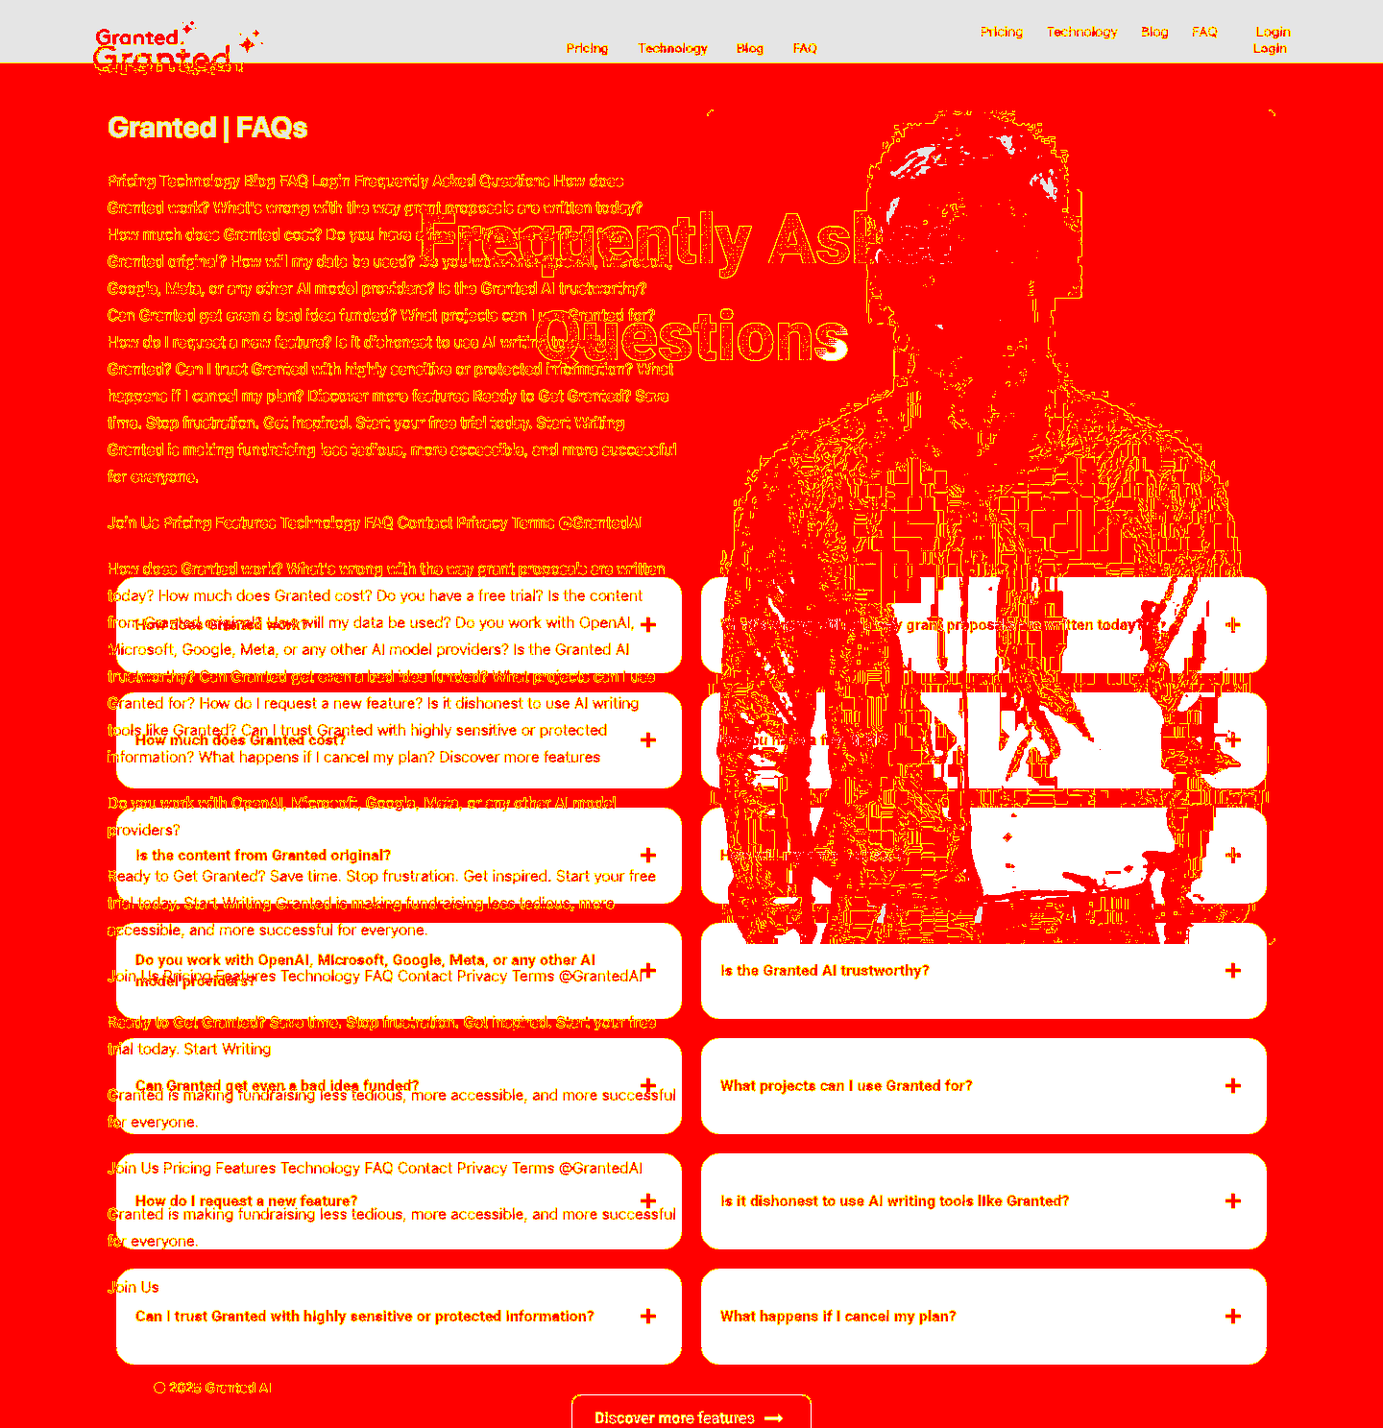
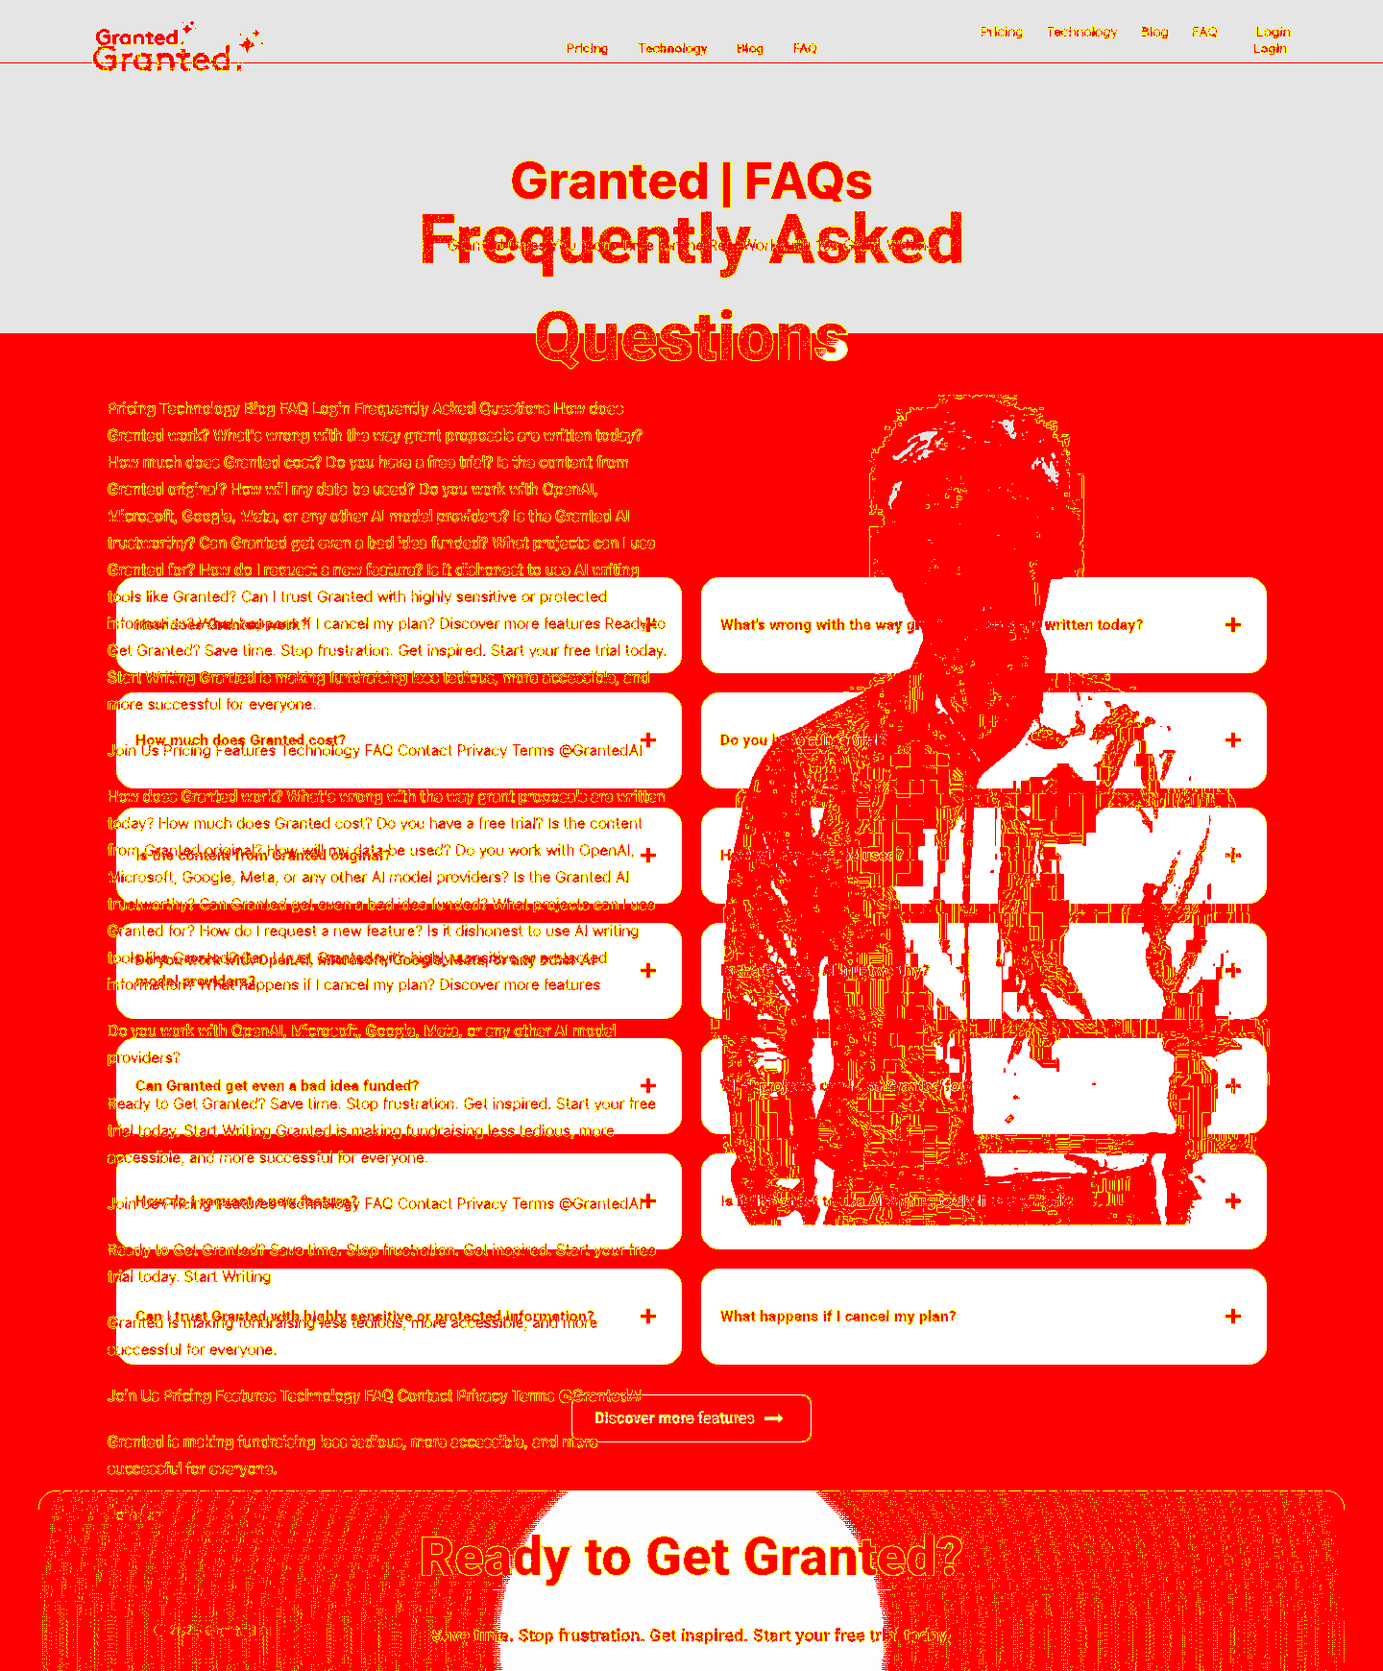
fix(orchestrator): add per-call timeouts and per-section progress marks; reduce fill-gap to one pass; lazy-import heavy parsers in upload route and set runtime=nodejs; add OpenAI timeout in fill-gap

diff --git a/site/app/page.tsx b/site/app/page.tsx
@@ -13,46 +13,46 @@ export default async function Home() {
     <div>
       {/* Hero (black) */}
       <section className="bg-black text-white">
-        <div className="mx-auto max-w-7xl px-6 md:px-8 py-16 md:py-24 text-center">
-          <h1 className="font-bold leading-tight text-4xl md:text-7xl">{headline}</h1>
-          <div className="mt-6 text-2xl md:text-3xl font-semibold">{subhead}</div>
-          <div className="mt-4 text-gray-300 max-w-3xl mx-auto space-y-2">
+        <div className="mx-auto max-w-7xl px-6 md:px-8 py-20 md:py-28 text-center">
+          <h1 className="font-extrabold leading-[1.05] text-[46px] md:text-[72px] lg:text-[84px] tracking-tight">{headline}</h1>
+          <div className="mt-6 text-[22px] md:text-[28px] font-semibold">{subhead}</div>
+          <div className="mt-5 text-gray-300 max-w-3xl mx-auto space-y-2 text-[16px] md:text-[18px]">
             <p>{p1}</p>
             <p>{p2}</p>
           </div>
-          <div className="mt-10">
-            <a href="https://app.grantedai.com" className="px-6 py-3 rounded-md bg-yellow-400 text-black font-semibold hover:bg-yellow-300 border border-yellow-500">Start Writing</a>
+          <div className="mt-12">
+            <a href="https://app.grantedai.com" className="px-6 py-3 rounded-md bg-yellow-400 text-black font-semibold hover:bg-yellow-300 border border-yellow-500 shadow">Start Writing</a>
           </div>
         </div>
       </section>
 
       {/* Section: quality of ideas */}
       <section className="bg-white">
-        <div className="mx-auto max-w-7xl px-6 md:px-8 py-16 grid md:grid-cols-2 gap-10 items-center">
+        <div className="mx-auto max-w-7xl px-6 md:px-8 py-16 grid md:grid-cols-2 gap-12 items-center">
           <div>
-            <h2 className="text-3xl md:text-4xl font-extrabold leading-tight">{h2}</h2>
-            <p className="mt-4 text-gray-700 max-w-xl">
+            <h2 className="text-[34px] md:text-[44px] font-extrabold leading-tight">{h2}</h2>
+            <p className="mt-5 text-gray-700 max-w-xl text-[16px] md:text-[18px]">
               Instantly generate high-quality drafts for a wide range of grant proposals, appeals, letters of support, articles, and more, just by entering simple information about your project.
             </p>
             <div className="mt-6">
-              <a href="/features" className="inline-flex items-center gap-2 px-4 py-2 rounded-md border font-medium">Discover more features <span aria-hidden>→</span></a>
+              <a href="/features" className="inline-flex items-center gap-2 px-4 py-2 rounded-md border font-medium hover:bg-white">Discover more features <span aria-hidden>→</span></a>
             </div>
           </div>
           <div className="text-center">
-            <img src="/images/imgi_7_img1.jpg" alt="Granted" width="480" height="540" className="mx-auto rounded-xl border" />
+            <img src="/images/imgi_7_img1.jpg" alt="Granted" width="520" height="560" className="mx-auto rounded-xl" />
           </div>
         </div>
       </section>
 
       {/* Section: donor appeal to NIH R01 */}
       <section className="bg-white">
-        <div className="mx-auto max-w-7xl px-6 md:px-8 py-10 grid md:grid-cols-2 gap-10 items-start">
+        <div className="mx-auto max-w-7xl px-6 md:px-8 py-14 grid md:grid-cols-2 gap-12 items-start">
           <div className="order-2 md:order-1 text-center">
-            <img src="/images/imgi_9_img3.jpg" alt="Use cases" width="420" height="500" className="mx-auto rounded-xl border" />
+            <img src="/images/imgi_9_img3.jpg" alt="Use cases" width="460" height="540" className="mx-auto rounded-xl" />
           </div>
           <div className="order-1 md:order-2">
-            <h3 className="text-3xl font-extrabold leading-tight">{h3}</h3>
-            <ul className="mt-6 text-gray-700 space-y-2 list-disc pl-5">
+            <h3 className="text-[30px] md:text-[36px] font-extrabold leading-tight">{h3}</h3>
+            <ul className="mt-6 text-gray-700 space-y-2 list-disc pl-5 text-[16px] md:text-[18px]">
               <li>Quickly assemble full fundraising proposals.</li>
               <li>Granted's AI is specifically trained for grant proposal writing and produces superior outcomes compared to general-purpose AI writing tools.</li>
               <li>50+ writing models to help draft highly personalized fundraising proposals.</li>
@@ -67,20 +67,20 @@ export default async function Home() {
 
       {/* Section: 3 Steps */}
       <section className="bg-black text-white">
-        <div className="mx-auto max-w-7xl px-6 md:px-8 py-16">
-          <h2 className="text-3xl md:text-5xl font-extrabold text-center">3 Steps To Your Fastest Funding Ever</h2>
-          <div className="mt-10 grid gap-8 md:grid-cols-3">
-            <div className="rounded-[28px] bg-white/95 text-black p-8 shadow border">
+        <div className="mx-auto max-w-7xl px-6 md:px-8 py-20">
+          <h2 className="text-[34px] md:text-[54px] font-extrabold text-center">3 Steps To Your Fastest Funding Ever</h2>
+          <div className="mt-12 grid gap-8 md:grid-cols-3">
+            <div className="rounded-[28px] bg-white/95 text-black p-8 shadow border border-gray-200">
               <div className="text-4xl font-extrabold text-yellow-400">1</div>
               <div className="mt-4 font-semibold">Create a new project.</div>
               <p className="mt-2 text-gray-600">Enter your mission statement and describe your work.</p>
             </div>
-            <div className="rounded-[28px] bg-white/95 text-black p-8 shadow border">
+            <div className="rounded-[28px] bg-white/95 text-black p-8 shadow border border-gray-200">
               <div className="text-4xl font-extrabold text-yellow-400">2</div>
               <div className="mt-4 font-semibold">Select a model and complete the prompt.</div>
               <p className="mt-2 text-gray-600">Each of the 50+ models require some essential information, such as key personnel, values, funding request amount, and project description.</p>
             </div>
-            <div className="rounded-[28px] bg-white/95 text-black p-8 shadow border">
+            <div className="rounded-[28px] bg-white/95 text-black p-8 shadow border border-gray-200">
               <div className="text-4xl font-extrabold text-yellow-400">3</div>
               <div className="mt-4 font-semibold">Watch as Granted creates a quality draft in seconds.</div>
               <p className="mt-2 text-gray-600">Pick your favorite draft and go. Or copy it into a larger document in the editor to assemble your full proposal.</p>
@@ -91,12 +91,12 @@ export default async function Home() {
 
       {/* Section: Level the playing field */}
       <section className="bg-white">
-        <div className="mx-auto max-w-7xl px-6 md:px-8 py-16 grid md:grid-cols-2 gap-10 items-center">
+        <div className="mx-auto max-w-7xl px-6 md:px-8 py-20 grid md:grid-cols-2 gap-12 items-center">
           <div className="order-2 md:order-1 text-center">
             <img src="/images/imgi_8_img2.jpg" alt="Equity" width="520" height="520" className="mx-auto rounded-xl" />
           </div>
           <div className="order-1 md:order-2">
-            <h2 className="text-4xl md:text-5xl font-extrabold leading-tight">Level the fundraising playing field.</h2>
+            <h2 className="text-[34px] md:text-[54px] font-extrabold leading-tight">Level the fundraising playing field.</h2>
             <p className="mt-6 text-gray-700 max-w-xl">The fundraising game isn't fair. The submission and selection process has well-known equity issues that disproportionately affect the careers of women, minorities, and non-native English speakers.</p>
             <p className="mt-4 text-gray-700 max-w-xl">Granted's mission is to make fundraising less tedious, more accessible, and more successful for everyone &mdash; while freeing up millions of additional hours of productivity.</p>
           </div>
@@ -105,12 +105,12 @@ export default async function Home() {
 
       {/* CTA band */}
       <section className="bg-black">
-        <div className="mx-auto max-w-7xl px-6 md:px-8 py-16">
-          <div className="mx-auto max-w-5xl rounded-[24px] p-10 md:p-14" style={{background:'linear-gradient(180deg,#fde68a,#fbbf24)'}}>
-            <h3 className="text-3xl md:text-5xl font-extrabold text-black text-center">Ready to Get Granted?</h3>
-            <p className="mt-4 text-black/80 text-center">Save time. Stop frustration. Get inspired. Start your free trial today.</p>
-            <div className="mt-8 flex justify-center">
-              <a href="https://app.grantedai.com" className="px-6 py-3 rounded-md bg-black text-white font-semibold hover:opacity-90">Start Writing</a>
+        <div className="mx-auto max-w-7xl px-6 md:px-8 py-24">
+          <div className="mx-auto max-w-5xl rounded-[24px] p-10 md:p-16 shadow-lg" style={{background:'linear-gradient(180deg,#fde68a,#f59e0b)'}}>
+            <h3 className="text-[34px] md:text-[54px] font-extrabold text-black text-center">Ready to Get Granted?</h3>
+            <p className="mt-4 text-black/80 text-center text-lg">Save time. Stop frustration. Get inspired. Start your free trial today.</p>
+            <div className="mt-10 flex justify-center">
+              <a href="https://app.grantedai.com" className="px-6 py-3 rounded-md bg-black text-white font-semibold hover:opacity-90 border border-black">Start Writing</a>
             </div>
           </div>
         </div>

diff --git a/web/app/api/autopilot/run/route.ts b/web/app/api/autopilot/run/route.ts
@@ -9,10 +9,17 @@ async function mark(projectId: string, label: string) {
   await prisma.project.update({ where: { id: projectId }, data: { meta: { ...meta, progress } } })
 }
 
-async function postJSON(path: string, body: any) {
+async function postJSON(path: string, body: any, timeoutMs = 30000) {
   const base = process.env.APP_URL || 'http://localhost:3000'
-  const res = await fetch(`${base}${path}`, { method: 'POST', headers: { 'Content-Type': 'application/json' }, body: JSON.stringify(body) })
-  if (!res.ok) throw new Error(`Failed ${path}: ${res.status}`)
+  const ctrl = new AbortController()
+  const t = setTimeout(() => ctrl.abort(), timeoutMs)
+  try {
+    const res = await fetch(`${base}${path}`, { method: 'POST', headers: { 'Content-Type': 'application/json' }, body: JSON.stringify(body), signal: ctrl.signal })
+    if (!res.ok) throw new Error(`Failed ${path}: ${res.status}`)
+    return await res.json().catch(() => ({}))
+  } finally {
+    clearTimeout(t)
+  }
 }
 
 export async function POST(req: NextRequest) {
@@ -33,16 +40,22 @@ export async function POST(req: NextRequest) {
 
     // Fill a couple of gaps per section, then tighten
     const sections = await prisma.section.findMany({ where: { projectId }, orderBy: { order: 'asc' } })
+    const total = sections.length
+    let idx = 0
     for (const s of sections) {
-      for (let i = 0; i < 2; i++) {
-        await postJSON('/api/autopilot/fill-gap', { sectionId: s.id })
-        await postJSON('/api/autopilot/coverage', { projectId })
-      }
+      idx++
+      // Fill one gap per section with timeout safeguards
+      try { await postJSON('/api/autopilot/fill-gap', { sectionId: s.id }, 25000) } catch {}
+      await postJSON('/api/autopilot/coverage', { projectId }, 15000)
+      await mark(projectId, `Filling gaps ${idx}/${total}`)
     }
     await mark(projectId, 'Filling gaps')
+    idx = 0
     for (const s of sections) {
-      await postJSON('/api/autopilot/tighten', { sectionId: s.id })
-      await postJSON('/api/autopilot/coverage', { projectId })
+      idx++
+      try { await postJSON('/api/autopilot/tighten', { sectionId: s.id }, 25000) } catch {}
+      await postJSON('/api/autopilot/coverage', { projectId }, 15000)
+      await mark(projectId, `Tightening ${idx}/${total}`)
     }
     await mark(projectId, 'Tightening to limits')
 
@@ -72,4 +85,3 @@ export async function POST(req: NextRequest) {
     return NextResponse.json({ error: String(e) }, { status: 500 })
   }
 }
-

diff --git a/site/app/features/page.tsx b/site/app/features/page.tsx
@@ -4,24 +4,27 @@ export default async function FeaturesPage() {
   const scraped = await loadScraped('features')
   const paras = scraped ? toParagraphs(scraped) : []
   return (
-    <section className="mx-auto max-w-7xl px-6 md:px-8 py-12">
-      <div className="grid gap-10 md:grid-cols-2 items-start">
-        <div>
-          <h1 className="text-3xl font-bold mb-6">{scraped?.title ?? 'Features'}</h1>
-          <div className="prose prose-slate max-w-none">
-            {paras.map((p, i) => (
-              <p key={i}>{p}</p>
-            ))}
+    <div>
+      <section className="bg-black text-white">
+        <div className="mx-auto max-w-7xl px-6 md:px-8 py-20 text-center">
+          <h1 className="text-[34px] md:text-[54px] font-extrabold">{scraped?.title ?? 'Features'}</h1>
+          {scraped?.description && <p className="mt-4 text-gray-300 max-w-3xl mx-auto">{scraped.description}</p>}
+        </div>
+      </section>
+      <section className="mx-auto max-w-7xl px-6 md:px-8 py-16">
+        <div className="grid gap-12 md:grid-cols-2 items-start">
+          <div>
+            <div className="prose prose-slate max-w-none">
+              {paras.map((p, i) => (
+                <p key={i}>{p}</p>
+              ))}
+            </div>
+          </div>
+          <div>
+            <img src="/images/imgi_7_img1.jpg" alt="Features" className="rounded-xl w-full h-auto" />
           </div>
         </div>
-        <div>
-          <img src="/images/img1-1.jpg" alt="Features preview" className="rounded-lg border w-full h-auto" />
-        </div>
-      </div>
-      <div className="mt-8 grid gap-6 sm:grid-cols-2">
-        <img src="/images/img1-2.jpg" alt="Feature detail 1" className="rounded-lg border w-full h-auto" />
-        <img src="/images/img2-1.jpg" alt="Feature detail 2" className="rounded-lg border w-full h-auto" />
-      </div>
-    </section>
+      </section>
+    </div>
   )
 }

diff --git a/site/app/contact/page.tsx b/site/app/contact/page.tsx
@@ -5,17 +5,24 @@ export default async function ContactPage() {
   const scraped = await loadScraped('contact')
   const paras = scraped ? toParagraphs(scraped) : []
   return (
-    <section className="mx-auto max-w-3xl px-4 py-12">
-      <h1 className="text-3xl font-bold mb-6">{scraped?.title ?? 'Contact'}</h1>
-      {paras.length > 0 && (
-        <div className="prose prose-slate max-w-none mb-8">
-          {paras.map((p, i) => (
-            <p key={i}>{p}</p>
-          ))}
+    <div>
+      <section className="bg-black text-white">
+        <div className="mx-auto max-w-7xl px-6 md:px-8 py-20 text-center">
+          <h1 className="text-[34px] md:text-[54px] font-extrabold">{scraped?.title ?? 'Contact'}</h1>
+          {scraped?.description && <p className="mt-4 text-gray-300 max-w-3xl mx-auto">{scraped.description}</p>}
         </div>
-      )}
-      <ContactForm />
-      <p className="text-sm text-gray-500 mt-4">We’ll route messages to info@grantedai.com.</p>
-    </section>
+      </section>
+      <section className="mx-auto max-w-3xl px-6 md:px-8 py-16">
+        {paras.length > 0 && (
+          <div className="prose prose-slate max-w-none mb-8">
+            {paras.map((p, i) => (
+              <p key={i}>{p}</p>
+            ))}
+          </div>
+        )}
+        <ContactForm />
+        <p className="text-sm text-gray-500 mt-4">We’ll route messages to info@grantedai.com.</p>
+      </section>
+    </div>
   )
 }

diff --git a/site/app/tech/page.tsx b/site/app/tech/page.tsx
@@ -4,20 +4,25 @@ export default async function TechPage() {
   const scraped = await loadScraped('tech')
   const paras = scraped ? toParagraphs(scraped) : []
   return (
-    <section className="mx-auto max-w-7xl px-6 md:px-8 py-12">
-      <div className="grid gap-10 md:grid-cols-2 items-start">
-        <div>
-          <h1 className="text-3xl font-bold mb-6">{scraped?.title ?? 'Technology'}</h1>
+    <div>
+      <section className="bg-black text-white">
+        <div className="mx-auto max-w-7xl px-6 md:px-8 py-20 text-center">
+          <h1 className="text-[34px] md:text-[54px] font-extrabold">{scraped?.title ?? 'Technology'}</h1>
+          {scraped?.description && <p className="mt-4 text-gray-300 max-w-3xl mx-auto">{scraped.description}</p>}
+        </div>
+      </section>
+      <section className="mx-auto max-w-7xl px-6 md:px-8 py-16">
+        <div className="grid gap-12 md:grid-cols-2 items-start">
           <div className="prose prose-slate max-w-none">
             {paras.map((p, i) => (
               <p key={i}>{p}</p>
             ))}
           </div>
+          <div>
+            <img src="/images/tech3.jpg" alt="Technology" className="rounded-xl w-full h-auto" />
+          </div>
         </div>
-        <div>
-          <img src="/images/tech3.jpg" alt="Technology" className="rounded-lg border w-full h-auto" />
-        </div>
-      </div>
-    </section>
+      </section>
+    </div>
   )
 }

diff --git a/site/app/faq/page.tsx b/site/app/faq/page.tsx
@@ -4,20 +4,25 @@ export default async function FAQPage() {
   const scraped = await loadScraped('faq')
   const paras = scraped ? toParagraphs(scraped) : []
   return (
-    <section className="mx-auto max-w-7xl px-6 md:px-8 py-12">
-      <div className="grid gap-8 md:grid-cols-2 items-start">
-        <div>
-          <h1 className="text-3xl font-bold mb-6">{scraped?.title ?? 'FAQ'}</h1>
+    <div>
+      <section className="bg-black text-white">
+        <div className="mx-auto max-w-7xl px-6 md:px-8 py-20 text-center">
+          <h1 className="text-[34px] md:text-[54px] font-extrabold">{scraped?.title ?? 'FAQ'}</h1>
+          {scraped?.description && <p className="mt-4 text-gray-300 max-w-3xl mx-auto">{scraped.description}</p>}
+        </div>
+      </section>
+      <section className="mx-auto max-w-7xl px-6 md:px-8 py-16">
+        <div className="grid gap-10 md:grid-cols-2 items-start">
           <div className="prose prose-slate max-w-none">
             {paras.map((p, i) => (
               <p key={i}>{p}</p>
             ))}
           </div>
+          <div>
+            <img src="/images/img2-2.jpg" alt="FAQ" className="rounded-xl w-full h-auto" />
+          </div>
         </div>
-        <div>
-          <img src="/images/img2-2.jpg" alt="FAQ" className="rounded-lg border w-full h-auto" />
-        </div>
-      </div>
-    </section>
+      </section>
+    </div>
   )
 }

diff --git a/site/app/pricing/page.tsx b/site/app/pricing/page.tsx
@@ -4,14 +4,21 @@ export default async function PricingPage() {
   const scraped = await loadScraped('pricing')
   const paras = scraped ? toParagraphs(scraped) : []
   return (
-    <section className="mx-auto max-w-3xl px-4 py-12">
-      <img src="/images/img3.jpg" alt="Pricing" className="rounded-lg border w-full h-auto mb-8" />
-      <h1 className="text-3xl font-bold mb-6">{scraped?.title ?? 'Pricing'}</h1>
-      <div className="prose prose-slate max-w-none">
-        {paras.map((p, i) => (
-          <p key={i}>{p}</p>
-        ))}
-      </div>
-    </section>
+    <div>
+      <section className="bg-black text-white">
+        <div className="mx-auto max-w-7xl px-6 md:px-8 py-20 text-center">
+          <h1 className="text-[34px] md:text-[54px] font-extrabold">{scraped?.title ?? 'Pricing'}</h1>
+          {scraped?.description && <p className="mt-4 text-gray-300 max-w-3xl mx-auto">{scraped.description}</p>}
+        </div>
+      </section>
+      <section className="mx-auto max-w-6xl px-6 md:px-8 py-16">
+        <img src="/images/img3.jpg" alt="Pricing" className="rounded-xl w-full h-auto mb-10" />
+        <div className="prose prose-slate max-w-none mx-auto">
+          {paras.map((p, i) => (
+            <p key={i}>{p}</p>
+          ))}
+        </div>
+      </section>
+    </div>
   )
 }

diff --git a/web/app/api/autopilot/fill-gap/route.ts b/web/app/api/autopilot/fill-gap/route.ts
@@ -17,10 +17,10 @@ export async function POST(req: NextRequest) {
     model: 'gpt-4o-mini',
     messages: [{ role: 'system', content: system }, { role: 'user', content: JSON.stringify(user) }],
     temperature: 0.2,
+    timeout: 20000,
   })
   const patch = r.choices[0]?.message?.content || ''
   const updated = (section.contentMd || '') + '\n\n' + patch
   await prisma.section.update({ where: { id: sectionId }, data: { contentMd: updated } })
   return NextResponse.json({ ok: true })
 }
-

diff --git a/site/app/layout.tsx b/site/app/layout.tsx
@@ -53,7 +53,7 @@ export default function RootLayout({ children }: { children: ReactNode }) {
           gtag('config', 'AW-1025794968');`}
         </Script>
       </head>
-      <body className="min-h-dvh flex flex-col">
+      <body className="min-h-dvh flex flex-col font-roboto">
         <header className="border-b bg-black text-white">
           <div className="mx-auto max-w-7xl px-4 py-3 flex items-center justify-between">
             <a href="/" className="flex items-center gap-2">
